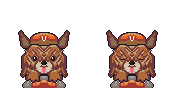
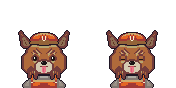
Psy U-Howl: prostszy portret Lili wg referencji, Lili mniejsza (jak Jania), Myszka większa, ogony machają
- portret Lili: mniej pasm, tylko jasne pasma nad oczami, ciemne w uszach i dwa kosmyki brody
- postacie 44x64: Lili w skali Jani, Myszka wyraźnie większa
- ogon wystaje ze spodni: w miejscu macha (0-1-2-3-2-1), w chodzie lekko się wychyla
- moving.gd: nowy układ arkusza (10x2), machanie w bezruchu

Claude-Session: https://claude.ai/code/session_01AApWJ5vAAocyN6ZrWVUcqc

diff --git a/tools/art/dogs.js b/tools/art/dogs.js
@@ -1,73 +1,82 @@
-// Psy z U-Howl do scenki przeprowadzki: Lili (york) i Myszka (czarna z podpalaniem). Klatka 36x54 jak Jania,
-// pomarańczowe ogrodniczki i czapeczki firmy. Arkusz 8x2: rząd 0 przód [stoi, chód1, chód2, oddech, niesie, niesie-chód1,
-// niesie-chód2, -], rząd 1 bok w prawo [stoi, chód 1-4, niesie-chód 1-2, -]. Lili ma wystający różowy język.
+// Psy z U-Howl do scenki przeprowadzki: Lili (york, mała jak Jania) i Myszka (duża, czarna z podpalaniem).
+// Klatka 44x64 (stopy na dole), pomarańczowe ogrodniczki i czapeczki firmy, ogon wystaje ze spodni i macha.
+// Arkusz 10x2: rząd 0 przód [machanie 0-3, chód 1-2, niesie, niesie-chód 1-2, -],
+//              rząd 1 bok w prawo [machanie 0-3, chód 1-4, niesie-chód 1-2]. Gra odtwarza machanie 0,1,2,3,2,1.
 const P = require(process.env.CODIXEL);
 const { ink } = require("./kit.js");
-const FW = 36, FH = 54, CX = 17.5;
+const FW = 44, FH = 64, CX = 21.5, COLS = 10;
 const UH = P.hueRamp(4, { hue: 20, shift: 22, sat: 0.78, light: [0.36, 0.66] });
 const UHV = P.hueRamp(2, { hue: 16, shift: 12, sat: 0.7, light: [0.28, 0.38] });
 const BOX = P.hueRamp(3, { hue: 34, shift: 14, sat: 0.42, light: [0.5, 0.72] });
 const CREAM = [250, 236, 206], EYE = [30, 20, 18], SHINE = [250, 244, 236], NOSE = [26, 20, 22], TONGUE = [236, 120, 140];
 const DOGS = {
-  lili: { K: 0.92, head: P.hueRamp(4, { hue: 24, shift: 22, sat: 0.52, light: [0.3, 0.64] }), body: P.hueRamp(3, { hue: 30, shift: 14, sat: 0.1, light: [0.46, 0.66] }),
-    muz: P.hueRamp(2, { hue: 34, shift: 12, sat: 0.45, light: [0.66, 0.8] }), ears: "up", tongue: true, shaggy: true },
-  myszka: { K: 1.08, head: P.hueRamp(4, { hue: 224, shift: 12, sat: 0.12, light: [0.1, 0.3] }), body: P.hueRamp(3, { hue: 224, shift: 12, sat: 0.12, light: [0.12, 0.28] }),
-    muz: P.hueRamp(2, { hue: 40, shift: 10, sat: 0.08, light: [0.74, 0.88] }), tan: P.hueRamp(2, { hue: 32, shift: 14, sat: 0.45, light: [0.6, 0.74] }), ears: "lop" },
+  lili: { K: 0.88, head: P.hueRamp(4, { hue: 24, shift: 22, sat: 0.52, light: [0.3, 0.64] }), body: P.hueRamp(3, { hue: 30, shift: 14, sat: 0.1, light: [0.46, 0.66] }),
+    muz: P.hueRamp(2, { hue: 34, shift: 12, sat: 0.45, light: [0.66, 0.8] }), ears: "up", tongue: true, tail: "short" },
+  myszka: { K: 1.28, head: P.hueRamp(4, { hue: 224, shift: 12, sat: 0.12, light: [0.1, 0.3] }), body: P.hueRamp(3, { hue: 224, shift: 12, sat: 0.12, light: [0.12, 0.28] }),
+    muz: P.hueRamp(2, { hue: 40, shift: 10, sat: 0.08, light: [0.74, 0.88] }), tan: P.hueRamp(2, { hue: 32, shift: 14, sat: 0.45, light: [0.6, 0.74] }), ears: "lop", tail: "long" },
 };
 const TOP = { light: [0, -0.62, 0.78] };
+const WAG = [-1, -0.6, 0.6, 1];  // z przodu ogon zawsze wystaje zza bioder, raz z jednej, raz z drugiej strony
 
-function frame(d, dir, f, carry) {
-  const K = d.K, X = (x) => (x - 16) * K + CX, Y = (y) => 54 - 2 - (48 - y) * K; // stopy na dole klatki
+// dir 0 przód / 1 bok; walk: -1 stoi, 0..3 faza chodu; wag: -1..1 wychylenie ogona
+function frame(d, dir, walk, carry, wag) {
+  const K = d.K, X = (x) => (x - 16) * K + CX, Y = (y) => FH - 2 - (48 - y) * K;
   const E = (x, y, rx, ry) => P.ell(X(x), Y(y), rx * K, ry * K);
   const C = (ax, ay, bx, by, ra, rb = ra) => P.cap(X(ax), Y(ay), X(bx), Y(by), ra * K, rb * K);
   const b = new P.Buf(FW - 2, FH - 3); b.ox = 1; b.oy = 1;
   const S = (prims, ramp, o) => P.solid(b, prims, ramp, { ...(dir === 1 ? {} : TOP), ...o });
-  const sym = (dd, y, c) => { b.pset(17 - dd, y, c); b.pset(18 + dd, y, c); };
-  const fill = (cx, cy, rx, ry, c) => { for (let y = Math.floor(cy - ry); y <= cy + ry; y++) for (let x = 1; x <= 34; x++) if (((x - cx) / rx) ** 2 + ((y - cy) / ry) ** 2 <= 1) b.pset(x, y, c); };
+  const L = Math.floor(CX), Rr = L + 1, px = (s) => Math.max(1, Math.round(s * K)); // piksele skalowane z psem
+  const sym = (dd, y, c) => { b.pset(L - dd, y, c); b.pset(Rr + dd, y, c); };
+  const fill = (cx, cy, rx, ry, c) => { for (let y = Math.floor(cy - ry); y <= cy + ry; y++) for (let x = 1; x <= FW - 2; x++) if (((x - cx) / rx) ** 2 + ((y - cy) / ry) ** 2 <= 1) b.pset(x, y, c); };
   const box = (x0, y0, w, h) => { // karton z taśmą
+    x0 = Math.round(x0); y0 = Math.round(y0); w = Math.round(w); h = Math.round(h);
     for (let y = 0; y < h; y++) for (let x = 0; x < w; x++) b.pset(x0 + x, y0 + y, y < 2 ? BOX[2] : x === Math.floor(w / 2) || x === Math.floor(w / 2) - 1 ? [200, 170, 110] : BOX[1]);
   };
+  const tailR = d.tail === "long" ? 1.5 : 1.7, tailL = d.tail === "long" ? 9 : 6;
   if (dir === 0) {
-    const walk = f === 1 || f === 2, bob = walk ? -1 : 0, st = f === 1 ? 1 : f === 2 ? -1 : 0;
+    const walking = walk >= 0, bob = walking ? -1 : 0, st = walk === 0 ? 1 : walk === 1 ? -1 : 0;
+    // ogon za ciałem: wychodzi ze spodni nad biodrem i wychyla się na boki
+    const tx = 16 + wag * 12.8, ty = 37 - tailL * 0.6 * (1 - 0.3 * Math.abs(wag));  // koniec ogona za łapką, nie za ręką
+    S([C(16, 36 + bob, tx, ty + bob, tailR, tailR * 0.8)], d.tail === "long" ? d.body : d.head, { dark: 0.9 });
     S([E(11, 45 - Math.max(st, 0), 3.6, 2), E(21, 45 - Math.max(-st, 0), 3.6, 2)], d.muz);       // stopy
     S([C(12, 39, 12, 43, 3.2), C(20, 39, 20, 43, 3.2), E(16, 35 + bob, 7.4, 6.4)], UH);       // nogawki i brzuch
     if (!carry) {
       S([C(8, 30 + bob, 7, 37 + st, 2.1, 1.9), C(24, 30 + bob, 25, 37 - st, 2.1, 1.9)], d.body);
       S([E(7, 38 + st + bob, 2, 1.7), E(25, 38 - st + bob, 2, 1.7)], d.muz);
     }
-    const by = Math.round(Y(30 + bob));
-    for (let dd = 0; dd < 4; dd++) for (let y = by; y < by + 5; y++) sym(dd, y, y === by + 4 ? UH[1] : UH[3]);
-    sym(3, by, CREAM);
-    fill(CX, Y(28.4 + bob), 6, 3, d.body[1]);
-    for (const y of [by - 2, by - 1]) sym(3, y, UH[2]);
-    if (d.ears === "up") S([C(10.5, 17 + bob, 6.8, 8 + bob, 3.0, 0.8), C(21.5, 17 + bob, 25.2, 8 + bob, 3.0, 0.8)], d.head); // trójkątne, sterczące
+    const by = Math.round(Y(30 + bob)), bw = px(4);
+    for (let dd = 0; dd < bw; dd++) for (let y = by; y < by + px(5); y++) sym(dd, y, y === by + px(5) - 1 ? UH[1] : UH[3]);
+    sym(bw - 1, by, CREAM);
+    fill(CX, Y(28.4 + bob), 6 * K, 3 * K, d.body[1]);
+    for (let y = by - px(2); y < by; y++) sym(bw - 1, y, UH[2]);
+    if (d.ears === "up") S([C(10.5, 17 + bob, 6.8, 8 + bob, 3.0, 0.8), C(21.5, 17 + bob, 25.2, 8 + bob, 3.0, 0.8)], d.head);
     S([E(16, 21 + bob, 9, 7.4), E(10, 24 + bob, 3.6, 3), E(22, 24 + bob, 3.6, 3)], d.head, { ambient: 0.5 });
-    if (d.ears === "lop") S([C(9.5, 16 + bob, 6.5, 20 + bob, 2.4, 1.8), C(22.5, 16 + bob, 25.5, 20 + bob, 2.4, 1.8)], d.head, { dark: 0.85 }); // małe, załamane do przodu
-    const ey = Math.round(Y(20 + bob)), ny = Math.round(Y(23.4 + bob));
-    fill(CX, Y(25 + bob), 4.4, 2.6, d.muz[1]);
-    if (d.shaggy) { // długa sierść yorka: kosmyki brody pod policzkami i grzywka na czole
-      for (const [dd, y0, n] of [[3, 26.6, 3], [5, 26.2, 3], [7, 25.4, 2]]) for (let k = 0; k < n; k++) sym(dd, Math.round(Y(y0 + bob)) + k, k === n - 1 ? d.head[1] : d.head[3]);
-      for (const dd of [1, 3]) { sym(dd, Math.round(Y(15.8 + bob)), d.head[3]); sym(dd, Math.round(Y(16.8 + bob)), d.head[2]); }
-    }
-    if (d.tan) { sym(4, ey - 2, d.tan[1]); sym(5, ey - 2, d.tan[1]); sym(6, ey + 3, d.tan[0]); sym(7, ey + 2, d.tan[0]); }
-    if (f === 3 && false) { } else for (const dd of [4, 5]) for (let y = ey; y < ey + 3; y++) sym(dd, y, EYE);
-    b.pset(13, ey, SHINE); b.pset(22, ey, SHINE);
+    if (d.ears === "lop") S([C(9.5, 16 + bob, 6.5, 20 + bob, 2.4, 1.8), C(22.5, 16 + bob, 25.5, 20 + bob, 2.4, 1.8)], d.head, { dark: 0.85 });
+    const ey = Math.round(Y(20 + bob)), ny = Math.round(Y(23.4 + bob)), e0 = px(4), eh = px(3);
+    fill(CX, Y(25 + bob), 4.4 * K, 2.6 * K, d.muz[1]);
+    if (d.tan) { for (const dd of [e0, e0 + 1]) sym(dd, ey - 2, d.tan[1]); sym(e0 + 2, ey + eh, d.tan[0]); sym(e0 + 3, ey + eh - 1, d.tan[0]); }
+    for (const dd of [e0, e0 + 1]) for (let y = ey; y < ey + eh; y++) sym(dd, y, EYE);
+    b.pset(L - e0 - 1, ey, SHINE); b.pset(Rr + e0, ey, SHINE);
     sym(0, ny, NOSE); sym(1, ny, NOSE); sym(0, ny + 1, NOSE);
-    if (d.tongue) { sym(0, ny + 2, TONGUE); sym(0, ny + 3, TONGUE); b.pset(17, ny + 4, TONGUE); b.pset(18, ny + 4, TONGUE); }
-    else { sym(1, ny + 2, [70, 64, 66]); sym(2, ny + 2, [70, 64, 66]); }
-    // czapeczka: kopuła i daszek
-    const cy = Math.round(Y(14.4 + bob));
-    for (let dd = 0; dd < 6; dd++) for (let y = cy - 3 + (dd > 3 ? 1 : 0) + (dd > 4 ? 1 : 0); y <= cy; y++) sym(dd, y, y === cy - 3 + (dd > 3 ? 1 : 0) + (dd > 4 ? 1 : 0) ? UH[3] : UH[2]);
-    for (let dd = 0; dd < 7; dd++) sym(dd, cy + 1, UHV[1]);
+    if (K > 1.1) { sym(2, ny, NOSE); sym(1, ny + 1, NOSE); }
+    if (d.tongue) { sym(0, ny + 2, TONGUE); sym(0, ny + 3, TONGUE); }
+    else { sym(1, ny + 3, [70, 64, 66]); sym(2, ny + 3, [70, 64, 66]); }
+    // czapeczka: kopuła i daszek (szerokość z głową)
+    const cy = Math.round(Y(14.4 + bob)), cw = px(6), ch = px(3);
+    for (let dd = 0; dd < cw; dd++) { const top = cy - ch + (dd >= cw - 2 ? 1 : 0) + (dd === cw - 1 ? 1 : 0); for (let y = top; y <= cy; y++) sym(dd, y, y === top ? UH[3] : UH[2]); }
+    for (let dd = 0; dd < cw + 1; dd++) sym(dd, cy + 1, UHV[1]);
     sym(0, cy - 1, CREAM);
     if (carry) { // karton obejmowany oburącz: ręce po bokach, łapki na bocznych ściankach kartonu
       S([C(8, 30 + bob, 7.6, 34 + bob, 2.1, 1.9), C(24, 30 + bob, 24.4, 34 + bob, 2.1, 1.9)], d.body);
-      box(10, Math.round(Y(29 + bob)), 16, 11);
+      box(X(8.4), Y(29 + bob), 15.2 * K, 11 * K);
       S([E(7.9, 35 + bob, 1.6, 2), E(24.1, 35 + bob, 1.6, 2)], d.muz);
     }
   } else {
-    const walkF = f >= 1, ph = (f - 1) % 4, sb = walkF && (ph === 1 || ph === 3) ? -1 : 0;
-    const near = !walkF ? 17 : [20, 15.5, 11, 15.5][ph], far = !walkF ? 13 : [11, 15.5, 20, 15.5][ph];
+    const walking = walk >= 0, sb = walking && (walk === 1 || walk === 3) ? -1 : 0;
+    const near = !walking ? 17 : [20, 15.5, 11, 15.5][walk], far = !walking ? 13 : [11, 15.5, 20, 15.5][walk];
+    // ogon z tyłu spodni, macha góra-dół
+    const ta = (d.tail === "long" ? 0.55 : 1.0) + wag * 0.35;
+    S([C(9.5, 37 + sb, 9.5 - Math.cos(ta) * tailL, 37 + sb - Math.sin(ta) * tailL, tailR, tailR * 0.8)], d.tail === "long" ? d.body : d.head, { dark: 0.9 });
     S([C(14.5, 39 + sb, far, 43, 2.1)], UH, { dark: 0.75 });
     S([E(far + 1.6, 45, 3.2, 1.4)], d.muz, { dark: 0.8 });
     S([E(15, 35 + sb, 6.4, 6.4)], UH);
@@ -77,40 +86,37 @@ function frame(d, dir, f, carry) {
     if (d.ears === "up") S([C(13, 16 + sb, 11, 8.5 + sb, 2.8, 0.8)], d.head);
     S([E(15, 21 + sb, 7.5, 7), E(21, 23.5 + sb, 4.4, 3.2)], d.head);
     if (d.ears === "lop") S([C(12, 16 + sb, 10.5, 20.5 + sb, 2.4, 1.8)], d.head, { dark: 0.85 });
-    fill(X(22), Y(25 + sb), 3.4, 2.2, d.muz[1]);
-    const ey = Math.round(Y(19.8 + sb)), ex = Math.round(X(18.5)), nx = Math.round(X(25)), ny = Math.round(Y(23 + sb));
-    for (let y = ey; y < ey + 3; y++) { b.pset(ex, y, EYE); b.pset(ex + 1, y, EYE); }
+    fill(X(22), Y(25 + sb), 3.4 * K, 2.2 * K, d.muz[1]);
+    const ey = Math.round(Y(19.8 + sb)), ex = Math.round(X(18.5)), nx = Math.round(X(25)), ny = Math.round(Y(23 + sb)), eh = px(3);
+    for (let y = ey; y < ey + eh; y++) { b.pset(ex, y, EYE); b.pset(ex + 1, y, EYE); }
     b.pset(ex, ey, SHINE);
     if (d.tan) { b.pset(ex, ey - 2, d.tan[1]); b.pset(ex + 1, ey - 2, d.tan[1]); }
     b.pset(nx, ny, NOSE); b.pset(nx - 1, ny, NOSE); b.pset(nx, ny + 1, NOSE);
-    if (d.tongue) { b.pset(nx - 2, ny + 2, TONGUE); b.pset(nx - 2, ny + 3, TONGUE); b.pset(nx - 1, ny + 3, TONGUE); }
-    const cy = Math.round(Y(14.6 + sb)), cx0 = Math.round(X(9.5));  // czapeczka, daszek do przodu
-    for (let x = 0; x < 11; x++) for (let y = cy - (x > 1 && x < 9 ? 3 : 2); y <= cy; y++) b.pset(cx0 + x, y, y <= cy - 2 ? UH[3] : UH[2]);
-    for (let x = 9; x < 15; x++) b.pset(cx0 + x, cy + 1, UHV[1]);
+    if (d.tongue) { b.pset(nx - 2, ny + 2, TONGUE); b.pset(nx - 2, ny + 3, TONGUE); }
+    const cy = Math.round(Y(14.6 + sb)), cx0 = Math.round(X(9.5)), cw = px(11), ch = px(3);  // czapeczka, daszek do przodu
+    for (let x = 0; x < cw; x++) for (let y = cy - (x > 1 && x < cw - 2 ? ch : ch - 1); y <= cy; y++) b.pset(cx0 + x, y, y <= cy - ch + 1 ? UH[3] : UH[2]);
+    for (let x = cw - 2; x < cw + px(4); x++) b.pset(cx0 + x, cy + 1, UHV[1]);
     if (carry) { // z boku: karton przed sobą, bliższa ręka obejmuje go od dołu
-      box(Math.round(X(18)), Math.round(Y(28 + sb)), 12, 10);
+      box(X(18), Y(28 + sb), 12 * K, 10 * K);
       S([C(16, 30 + sb, 19, 37 + sb, 2.1, 1.9)], d.body);
       S([E(20.5, 37.4 + sb, 2, 1.6)], d.muz);
     } else {
-      const sw = !walkF ? 0 : [-3, 0, 3, 0][ph];
+      const sw = !walking ? 0 : [-3, 0, 3, 0][walk];
       S([C(16, 30 + sb, 16 + sw, 37 + sb, 2.1, 1.9)], d.body);
       S([E(16 + sw, 38 + sb, 2, 1.7)], d.muz);
     }
   }
   return ink(b);
 }
-function breath(src, split = 40) {
-  const o = new P.Buf(src.w, src.h);
-  for (let y = 0; y < src.h; y++) for (let x = 0; x < src.w; x++) o.px[y * src.w + x] = y >= split ? src.px[y * src.w + x] : y > 0 ? src.px[(y - 1) * src.w + x] : 0;
-  return o;
-}
 const out = process.argv[2];
 const sheets = [];
 for (const [name, d] of Object.entries(DOGS)) {
-  const fr = [frame(d, 0, 0), frame(d, 0, 1), frame(d, 0, 2), breath(frame(d, 0, 0)), frame(d, 0, 0, true), frame(d, 0, 1, true), frame(d, 0, 2, true), new P.Buf(FW, FH),
-    frame(d, 1, 0), frame(d, 1, 1), frame(d, 1, 2), frame(d, 1, 3), frame(d, 1, 4), frame(d, 1, 1, true), frame(d, 1, 3, true), new P.Buf(FW, FH)];
-  P.save(P.pack(fr, { cols: 8, pad: 0 }), `${out}/cut_${name}.png`);
-  sheets.push(...fr.slice(0, 7).map((b) => ({ buf: b, scale: 4 })), ...fr.slice(8, 15).map((b) => ({ buf: b, scale: 4 })));
+  const front = [...WAG.map((w) => frame(d, 0, -1, false, w)), frame(d, 0, 0, false, -0.8), frame(d, 0, 1, false, 0.8),
+    frame(d, 0, -1, true, 0.8), frame(d, 0, 0, true, -0.8), frame(d, 0, 1, true, 0.8), new P.Buf(FW, FH)];
+  const side = [...WAG.map((w) => frame(d, 1, -1, false, w)), ...[0, 1, 2, 3].map((k) => frame(d, 1, k, false, k % 2 ? 0.4 : -0.4)),
+    frame(d, 1, 1, true, 0.4), frame(d, 1, 3, true, -0.4)];
+  P.save(P.pack([...front, ...side], { cols: COLS, pad: 0 }), `${out}/cut_${name}.png`);
+  sheets.push(...front.slice(0, 9).map((b) => ({ buf: b, scale: 3 })), ...side.slice(0, 9).map((b) => ({ buf: b, scale: 3 })));
 }
-P.save(P.sheet(sheets, { cols: 7 }), __dirname + "/_dogs_sprites.png");
-console.log("cut_lili.png cut_myszka.png", FW, FH);
+P.save(P.sheet(sheets, { cols: 9 }), __dirname + "/_dogs_sprites.png");
+console.log("cut_lili.png cut_myszka.png", FW, FH, COLS);

diff --git a/tools/art/portraits.js b/tools/art/portraits.js
@@ -215,12 +215,10 @@ function lili(blink = false) {  // york: złota grzywka, wielkie sterczące uszy
   for (const x of [40, 41, 46, 47]) c.set(x, 66, gold[0]);                       // pyszczek
   for (let y = 66; y < 73; y++) for (let x = 42; x < 46; x++) if (!(y === 72 && (x === 42 || x === 45))) c.set(x, y, y === 66 ? [196, 80, 96] : [236, 120, 140]); // język wypada na środku
   for (let y = 68; y < 72; y++) c.set(43, y, [214, 96, 116]);
-  c.add("beard", or(...[[30, 70, 28, 79], [34, 72, 33, 81], [38, 73, 38, 80], [26, 66, 23, 75]].flatMap(([ax, ay, bx, by]) => [cap(ax, ay, bx, by, 2.2), cap(2 * CX - ax, ay, 2 * CX - bx, by, 2.2)])), gold, { group: "head" }); // broda z kosmyków
-  for (let k = 0; k < 14; k++) {  // pasma sierści: krótkie ukośne kreski, jasne na górze, ciemne niżej (lustrzanie)
-    const x = 25 + (k * 7) % 18, y = 50 + Math.floor(k / 3) * 5 + (k % 2), dk = y > 62 ? 1 : 0;
-    for (let i = 0; i < 3; i++) { c.set(x + i, y + i, strand[dk]); c.set(2 * CX - 1 - (x + i), y + i, strand[dk]); }
-  }
-  for (const [x, y] of [[39, 47], [40, 48], [41, 49], [42, 50], [38, 49], [39, 50]]) { c.set(x, y, strand[0]); c.set(2 * CX - 1 - x, y, strand[0]); } // grzywka
+  c.add("beard", or(...[[31, 70, 30, 77], [36, 72, 36, 78]].flatMap(([ax, ay, bx, by]) => [cap(ax, ay, bx, by, 2.2), cap(2 * CX - ax, ay, 2 * CX - bx, by, 2.2)])), gold, { group: "head" }); // dwa kosmyki brody
+  // jak w referencji: kilka jasnych pasm nad oczami (w stronę nosa) i ciemne pasma w uszach, nic więcej
+  for (const [x, y] of [[36, 50], [37, 51], [38, 52], [39, 53], [33, 52], [34, 53]]) { c.set(x, y, strand[0]); c.set(2 * CX - 1 - x, y, strand[0]); }
+  for (const [x, y] of [[24, 40], [25, 42], [25, 43], [26, 44]]) { c.set(x, y, strand[1]); c.set(2 * CX - 1 - x, y, strand[1]); }
   hat(c, 41, 14);
   return c.render();
 }
